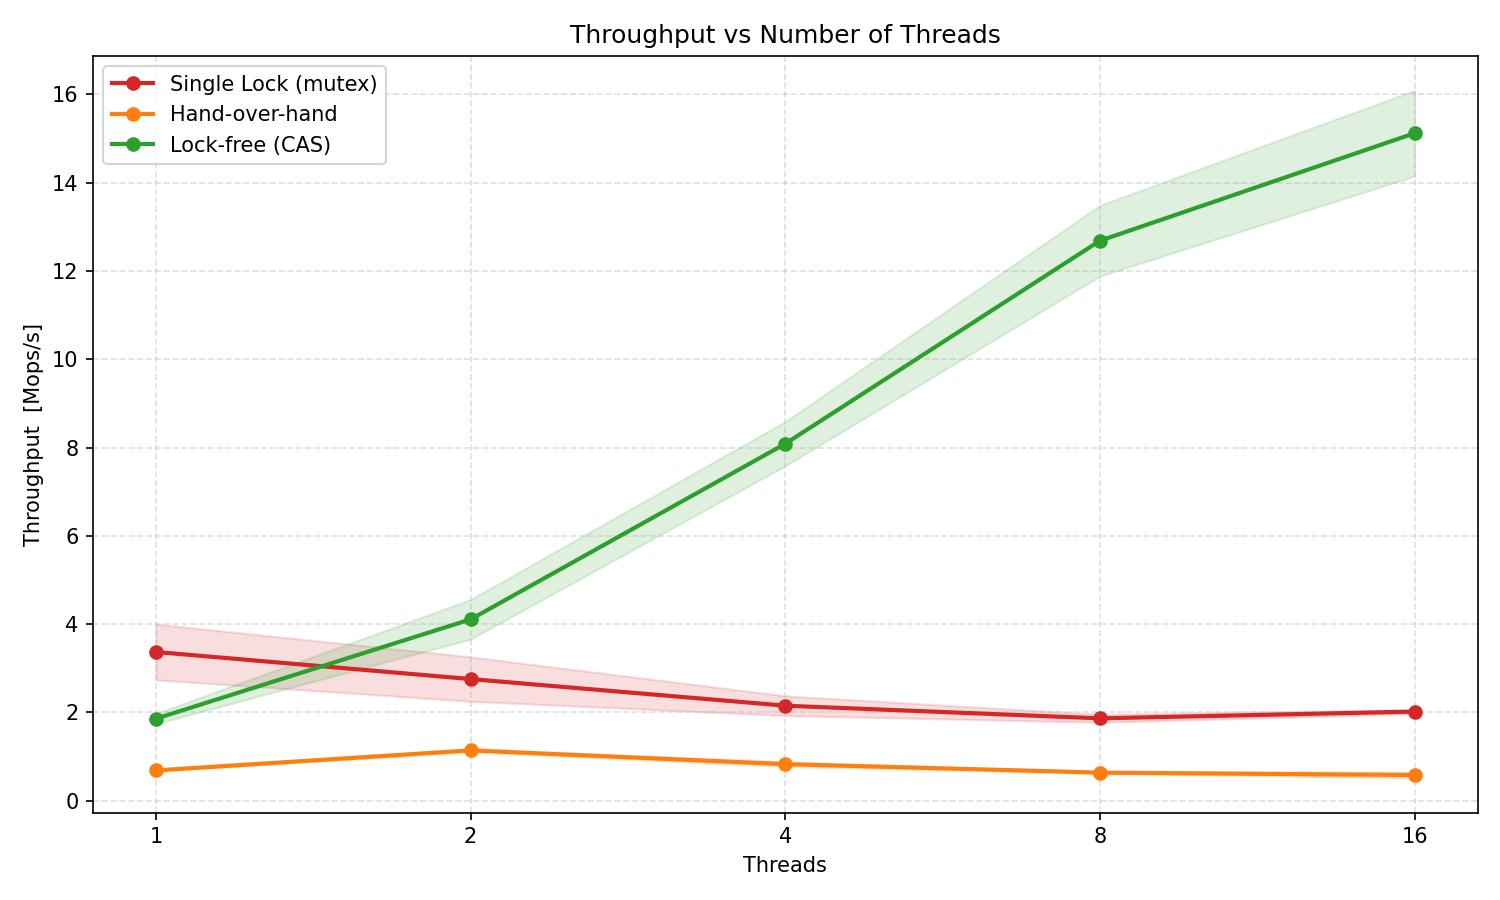
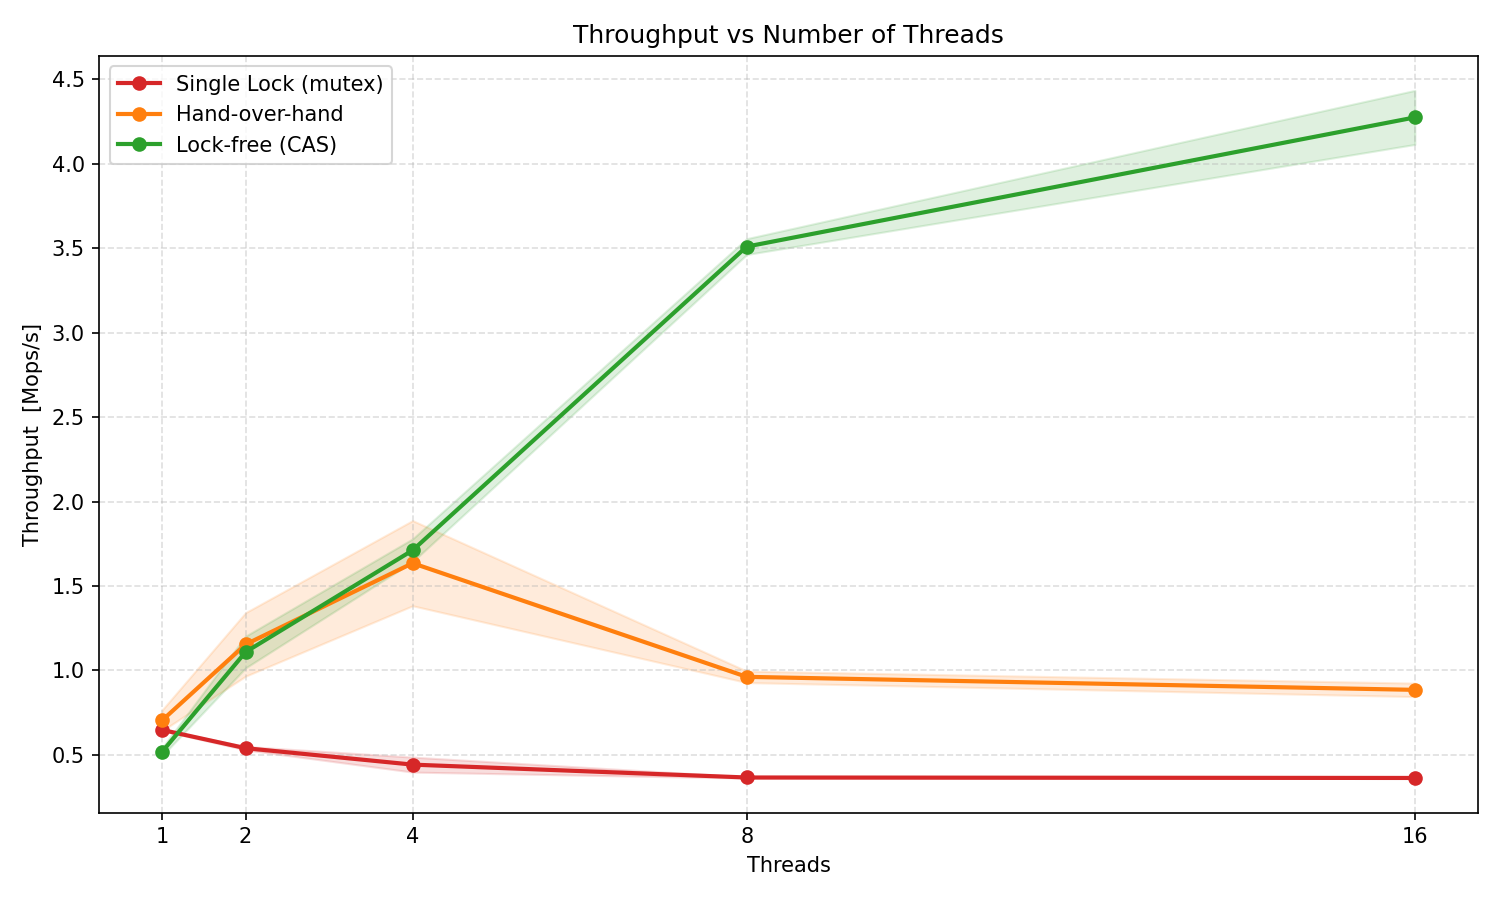
Add busyloop

diff --git a/02/handOverBST.cpp b/02/handOverBST.cpp
@@ -18,6 +18,17 @@
 #include <vector>
 
 // ---------------------------------------------------------------------------
+// Simulated work
+// ---------------------------------------------------------------------------
+static volatile int workSink = 0;
+
+static void simulateWork(int iters) {
+    int x = 1;
+    for (int i = 0; i < iters; ++i) x = x * 7 + i;
+    workSink = x;
+}
+
+// ---------------------------------------------------------------------------
 // Node
 // ---------------------------------------------------------------------------
 
@@ -54,6 +65,29 @@ public:
 
         while (true) {
             if (key == cur->key) { cur->mtx.unlock(); return true; }
+            Node* next = (key < cur->key) ? cur->left : cur->right;
+            if (!next) { cur->mtx.unlock(); return false; }
+            next->mtx.lock();
+            cur->mtx.unlock();
+            cur = next;
+        }
+    }
+
+    // contains with simulated work under LEAF lock only.
+    bool containsWork(int key, int workIters) {
+        sentinel_.mtx.lock();
+        Node* cur = (key < sentinel_.key) ? sentinel_.left : sentinel_.right;
+        if (!cur) { sentinel_.mtx.unlock(); return false; }
+
+        cur->mtx.lock();
+        sentinel_.mtx.unlock();
+
+        while (true) {
+            if (key == cur->key) {
+                simulateWork(workIters);  // work under LEAF lock only!
+                cur->mtx.unlock();
+                return true;
+            }
             Node* next = (key < cur->key) ? cur->left : cur->right;
             if (!next) { cur->mtx.unlock(); return false; }
             next->mtx.lock();
@@ -226,7 +260,7 @@ void concurrentStress() {
         ts.emplace_back([&, tid] {
             std::mt19937 rng(0xC0FFEE ^ tid);
             std::uniform_int_distribution<int> keyD(0, KEY_SPACE - 1);
-            std::uniform_int_distribution<int> opD(0, 3);
+            std::uniform_int_distribution<int> opD(0, 5);
             sync.arrive_and_wait();
             for (int i = 0; i < OPS; ++i) {
                 int k = keyD(rng);
@@ -260,7 +294,7 @@ void concurrentStress() {
 // Benchmark harness
 // ===========================================================================
 
-void runBenchmark(int threads, int opsPerThread, int keySpace) {
+void runBenchmark(int threads, int opsPerThread, int keySpace, int workIters) {
     HandOverBST tree;
     std::vector<int> keys;
     for (int k = 0; k < keySpace; k += 2) keys.push_back(k);
@@ -278,15 +312,15 @@ void runBenchmark(int threads, int opsPerThread, int keySpace) {
         ts.emplace_back([&, tid] {
             std::mt19937 rng(0xC0FFEE ^ tid);
             std::uniform_int_distribution<int> keyD(0, keySpace - 1);
-            std::uniform_int_distribution<int> opD(0, 3);
+            std::uniform_int_distribution<int> opD(0, 5);
             sync.arrive_and_wait();
             for (int i = 0; i < opsPerThread; ++i) {
                 int k = keyD(rng);
                 switch (opD(rng)) {
                     case 0: ins  += tree.insert(k);                 break;
                     case 1: del  += tree.remove(k);                 break;
-                    default:  // cases 2,3 → 50% reads
-                        if (tree.contains(k)) ++found; else ++miss; break;
+                    default:
+                        if (tree.containsWork(k, workIters)) ++found; else ++miss; break;
                 }
             }
         });
@@ -311,7 +345,8 @@ int main(int argc, char* argv[]) {
         int threads     = argc >= 3 ? std::atoi(argv[2]) : 4;
         int opsPerThread = argc >= 4 ? std::atoi(argv[3]) : 50000;
         int keySpace    = argc >= 5 ? std::atoi(argv[4]) : 2000;
-        runBenchmark(threads, opsPerThread, keySpace);
+        int workIters   = argc >= 6 ? std::atoi(argv[5]) : 0;
+        runBenchmark(threads, opsPerThread, keySpace, workIters);
     } else {
         test::singleThreadedSanity();
         test::concurrentStress();

diff --git a/02/singleLockBST.cpp b/02/singleLockBST.cpp
@@ -17,6 +17,18 @@
 #include <vector>
 
 // ---------------------------------------------------------------------------
+// Simulated work (busy-loop to represent processing a found record).
+// Prevents the compiler from optimising the loop away.
+// ---------------------------------------------------------------------------
+static volatile int workSink = 0;
+
+static void simulateWork(int iters) {
+    int x = 1;
+    for (int i = 0; i < iters; ++i) x = x * 7 + i;
+    workSink = x;
+}
+
+// ---------------------------------------------------------------------------
 // Node
 // ---------------------------------------------------------------------------
 
@@ -40,7 +52,21 @@ public:
         std::lock_guard<std::mutex> lk(mtx_);
         Node* cur = root_;
         while (cur) {
-            if (key == cur->key) return true;
+            if (key == cur->key) return true;  // work done while lock held
+            cur = (key < cur->key) ? cur->left : cur->right;
+        }
+        return false;
+    }
+
+    // contains with simulated work INSIDE the global lock.
+    bool containsWork(int key, int workIters) {
+        std::lock_guard<std::mutex> lk(mtx_);
+        Node* cur = root_;
+        while (cur) {
+            if (key == cur->key) {
+                simulateWork(workIters);  // work under global lock!
+                return true;
+            }
             cur = (key < cur->key) ? cur->left : cur->right;
         }
         return false;
@@ -137,7 +163,7 @@ void concurrentStress() {
         ts.emplace_back([&, tid] {
             std::mt19937 rng(0xC0FFEE ^ tid);
             std::uniform_int_distribution<int> keyD(0, KEY_SPACE - 1);
-            std::uniform_int_distribution<int> opD(0, 3);
+            std::uniform_int_distribution<int> opD(0, 5);
             sync.arrive_and_wait();
             for (int i = 0; i < OPS; ++i) {
                 int k = keyD(rng);
@@ -173,7 +199,7 @@ void concurrentStress() {
 // Usage: ./singleLockBST benchmark <threads> <ops_per_thread> <key_space>
 //   Outputs one line:  variant=singleLock threads=T total_ops=N time_us=U throughput_ops_s=F
 
-void runBenchmark(int threads, int opsPerThread, int keySpace) {
+void runBenchmark(int threads, int opsPerThread, int keySpace, int workIters) {
     SingleLockBST tree;
     std::vector<int> keys;
     for (int k = 0; k < keySpace; k += 2) keys.push_back(k);
@@ -191,15 +217,15 @@ void runBenchmark(int threads, int opsPerThread, int keySpace) {
         ts.emplace_back([&, tid] {
             std::mt19937 rng(0xC0FFEE ^ tid);
             std::uniform_int_distribution<int> keyD(0, keySpace - 1);
-            std::uniform_int_distribution<int> opD(0, 3);
+            std::uniform_int_distribution<int> opD(0, 5);
             sync.arrive_and_wait();
             for (int i = 0; i < opsPerThread; ++i) {
                 int k = keyD(rng);
                 switch (opD(rng)) {
                     case 0: ins  += tree.insert(k);                 break;
                     case 1: del  += tree.remove(k);                 break;
-                    default:  // cases 2,3 → 50% reads
-                        if (tree.contains(k)) ++found; else ++miss; break;
+                    default:
+                        if (tree.containsWork(k, workIters)) ++found; else ++miss; break;
                 }
             }
         });
@@ -224,7 +250,8 @@ int main(int argc, char* argv[]) {
         int threads     = argc >= 3 ? std::atoi(argv[2]) : 4;
         int opsPerThread = argc >= 4 ? std::atoi(argv[3]) : 50000;
         int keySpace    = argc >= 5 ? std::atoi(argv[4]) : 2000;
-        runBenchmark(threads, opsPerThread, keySpace);
+        int workIters   = argc >= 6 ? std::atoi(argv[5]) : 0;
+        runBenchmark(threads, opsPerThread, keySpace, workIters);
     } else {
         test::singleThreadedSanity();
         test::concurrentStress();

diff --git a/02/BST.cpp b/02/BST.cpp
@@ -82,6 +82,17 @@ inline std::string tidStr() {
 #endif
 
 // ---------------------------------------------------------------------------
+// Simulated work
+// ---------------------------------------------------------------------------
+static volatile int workSink = 0;
+
+static void simulateWork(int iters) {
+    int x = 1;
+    for (int i = 0; i < iters; ++i) x = x * 7 + i;
+    workSink = x;
+}
+
+// ---------------------------------------------------------------------------
 // Node hierarchy
 // ---------------------------------------------------------------------------
 
@@ -272,6 +283,14 @@ public:
         return r.l->key == key && key < INF1;
     }
 
+    // Wait-free, with simulated work (no lock held).
+    bool containsWork(int key, int workIters) const {
+        SearchRes r = search(key);
+        bool found = r.l->key == key && key < INF1;
+        if (found) simulateWork(workIters);  // no lock held!
+        return found;
+    }
+
     // Lock-free.
     bool insert(int key) {
         while (true) {
@@ -374,7 +393,7 @@ void concurrentStress() {
         ts.emplace_back([&, tid] {
             std::mt19937 rng(0xC0FFEE ^ tid);
             std::uniform_int_distribution<int> keyD(0, KEY_SPACE - 1);
-            std::uniform_int_distribution<int> opD(0, 3);
+            std::uniform_int_distribution<int> opD(0, 5);
             sync.arrive_and_wait();
             for (int i = 0; i < OPS; ++i) {
                 int k = keyD(rng);
@@ -408,7 +427,7 @@ void concurrentStress() {
 // Benchmark harness
 // ===========================================================================
 
-void runBenchmark(int threads, int opsPerThread, int keySpace) {
+void runBenchmark(int threads, int opsPerThread, int keySpace, int workIters) {
     LockFreeBST tree;
     std::vector<int> keys;
     for (int k = 0; k < keySpace; k += 2) keys.push_back(k);
@@ -426,15 +445,15 @@ void runBenchmark(int threads, int opsPerThread, int keySpace) {
         ts.emplace_back([&, tid] {
             std::mt19937 rng(0xC0FFEE ^ tid);
             std::uniform_int_distribution<int> keyD(0, keySpace - 1);
-            std::uniform_int_distribution<int> opD(0, 3);
+            std::uniform_int_distribution<int> opD(0, 5);
             sync.arrive_and_wait();
             for (int i = 0; i < opsPerThread; ++i) {
                 int k = keyD(rng);
                 switch (opD(rng)) {
                     case 0: ins  += tree.insert(k);                 break;
                     case 1: del  += tree.remove(k);                 break;
-                    default:  // cases 2,3 → 50% reads
-                        if (tree.contains(k)) ++found; else ++miss; break;
+                    default:
+                        if (tree.containsWork(k, workIters)) ++found; else ++miss; break;
                 }
             }
         });
@@ -459,7 +478,8 @@ int main(int argc, char* argv[]) {
         int threads     = argc >= 3 ? std::atoi(argv[2]) : 4;
         int opsPerThread = argc >= 4 ? std::atoi(argv[3]) : 50000;
         int keySpace    = argc >= 5 ? std::atoi(argv[4]) : 2000;
-        runBenchmark(threads, opsPerThread, keySpace);
+        int workIters   = argc >= 6 ? std::atoi(argv[5]) : 0;
+        runBenchmark(threads, opsPerThread, keySpace, workIters);
     } else {
         test::singleThreadedSanity();
         test::concurrentStress();

diff --git a/02/plot_benchmark.py b/02/plot_benchmark.py
@@ -31,7 +31,7 @@ VARIANT_ORDER = ["singleLock", "handOver", "lockFree"]
 
 def parse_args() -> argparse.Namespace:
     p = argparse.ArgumentParser(description="BST benchmark charts")
-    p.add_argument("--input", default="results.csv", help="Input CSV file")
+    p.add_argument("--input", default="results_work.csv", help="Input CSV file")
     p.add_argument("--out-dir", default="plots", help="Output directory for PNGs")
     return p.parse_args()
 
@@ -73,7 +73,7 @@ def plot_throughput(agg: pd.DataFrame, out: Path) -> None:
     ax.set_title("Throughput vs Number of Threads")
     ax.set_xlabel("Threads")
     ax.set_ylabel("Throughput  [Mops/s]")
-    ax.set_xscale("log", base=2)
+    # ax.set_xscale("log", base=2)
     ax.set_xticks(sorted(agg["threads"].unique()))
     ax.get_xaxis().set_major_formatter(plt.ScalarFormatter())
     ax.grid(True, linestyle="--", alpha=0.4)
@@ -106,7 +106,7 @@ def plot_latency(agg: pd.DataFrame, out: Path) -> None:
     ax.set_title("Total Execution Time vs Number of Threads")
     ax.set_xlabel("Threads")
     ax.set_ylabel("Execution time  [ms]")
-    ax.set_xscale("log", base=2)
+    # ax.set_xscale("log", base=2)
     ax.set_xticks(sorted(agg["threads"].unique()))
     ax.get_xaxis().set_major_formatter(plt.ScalarFormatter())
     ax.grid(True, linestyle="--", alpha=0.4)
@@ -147,7 +147,7 @@ def plot_speedup(agg: pd.DataFrame, out: Path) -> None:
     ax.set_title("Speedup vs Number of Threads  (relative to 1 thread of same variant)")
     ax.set_xlabel("Threads")
     ax.set_ylabel("Speedup  (×)")
-    ax.set_xscale("log", base=2)
+    # ax.set_xscale("log", base=2)
     ax.set_xticks(sorted(agg["threads"].unique()))
     ax.get_xaxis().set_major_formatter(plt.ScalarFormatter())
     ax.grid(True, linestyle="--", alpha=0.4)
